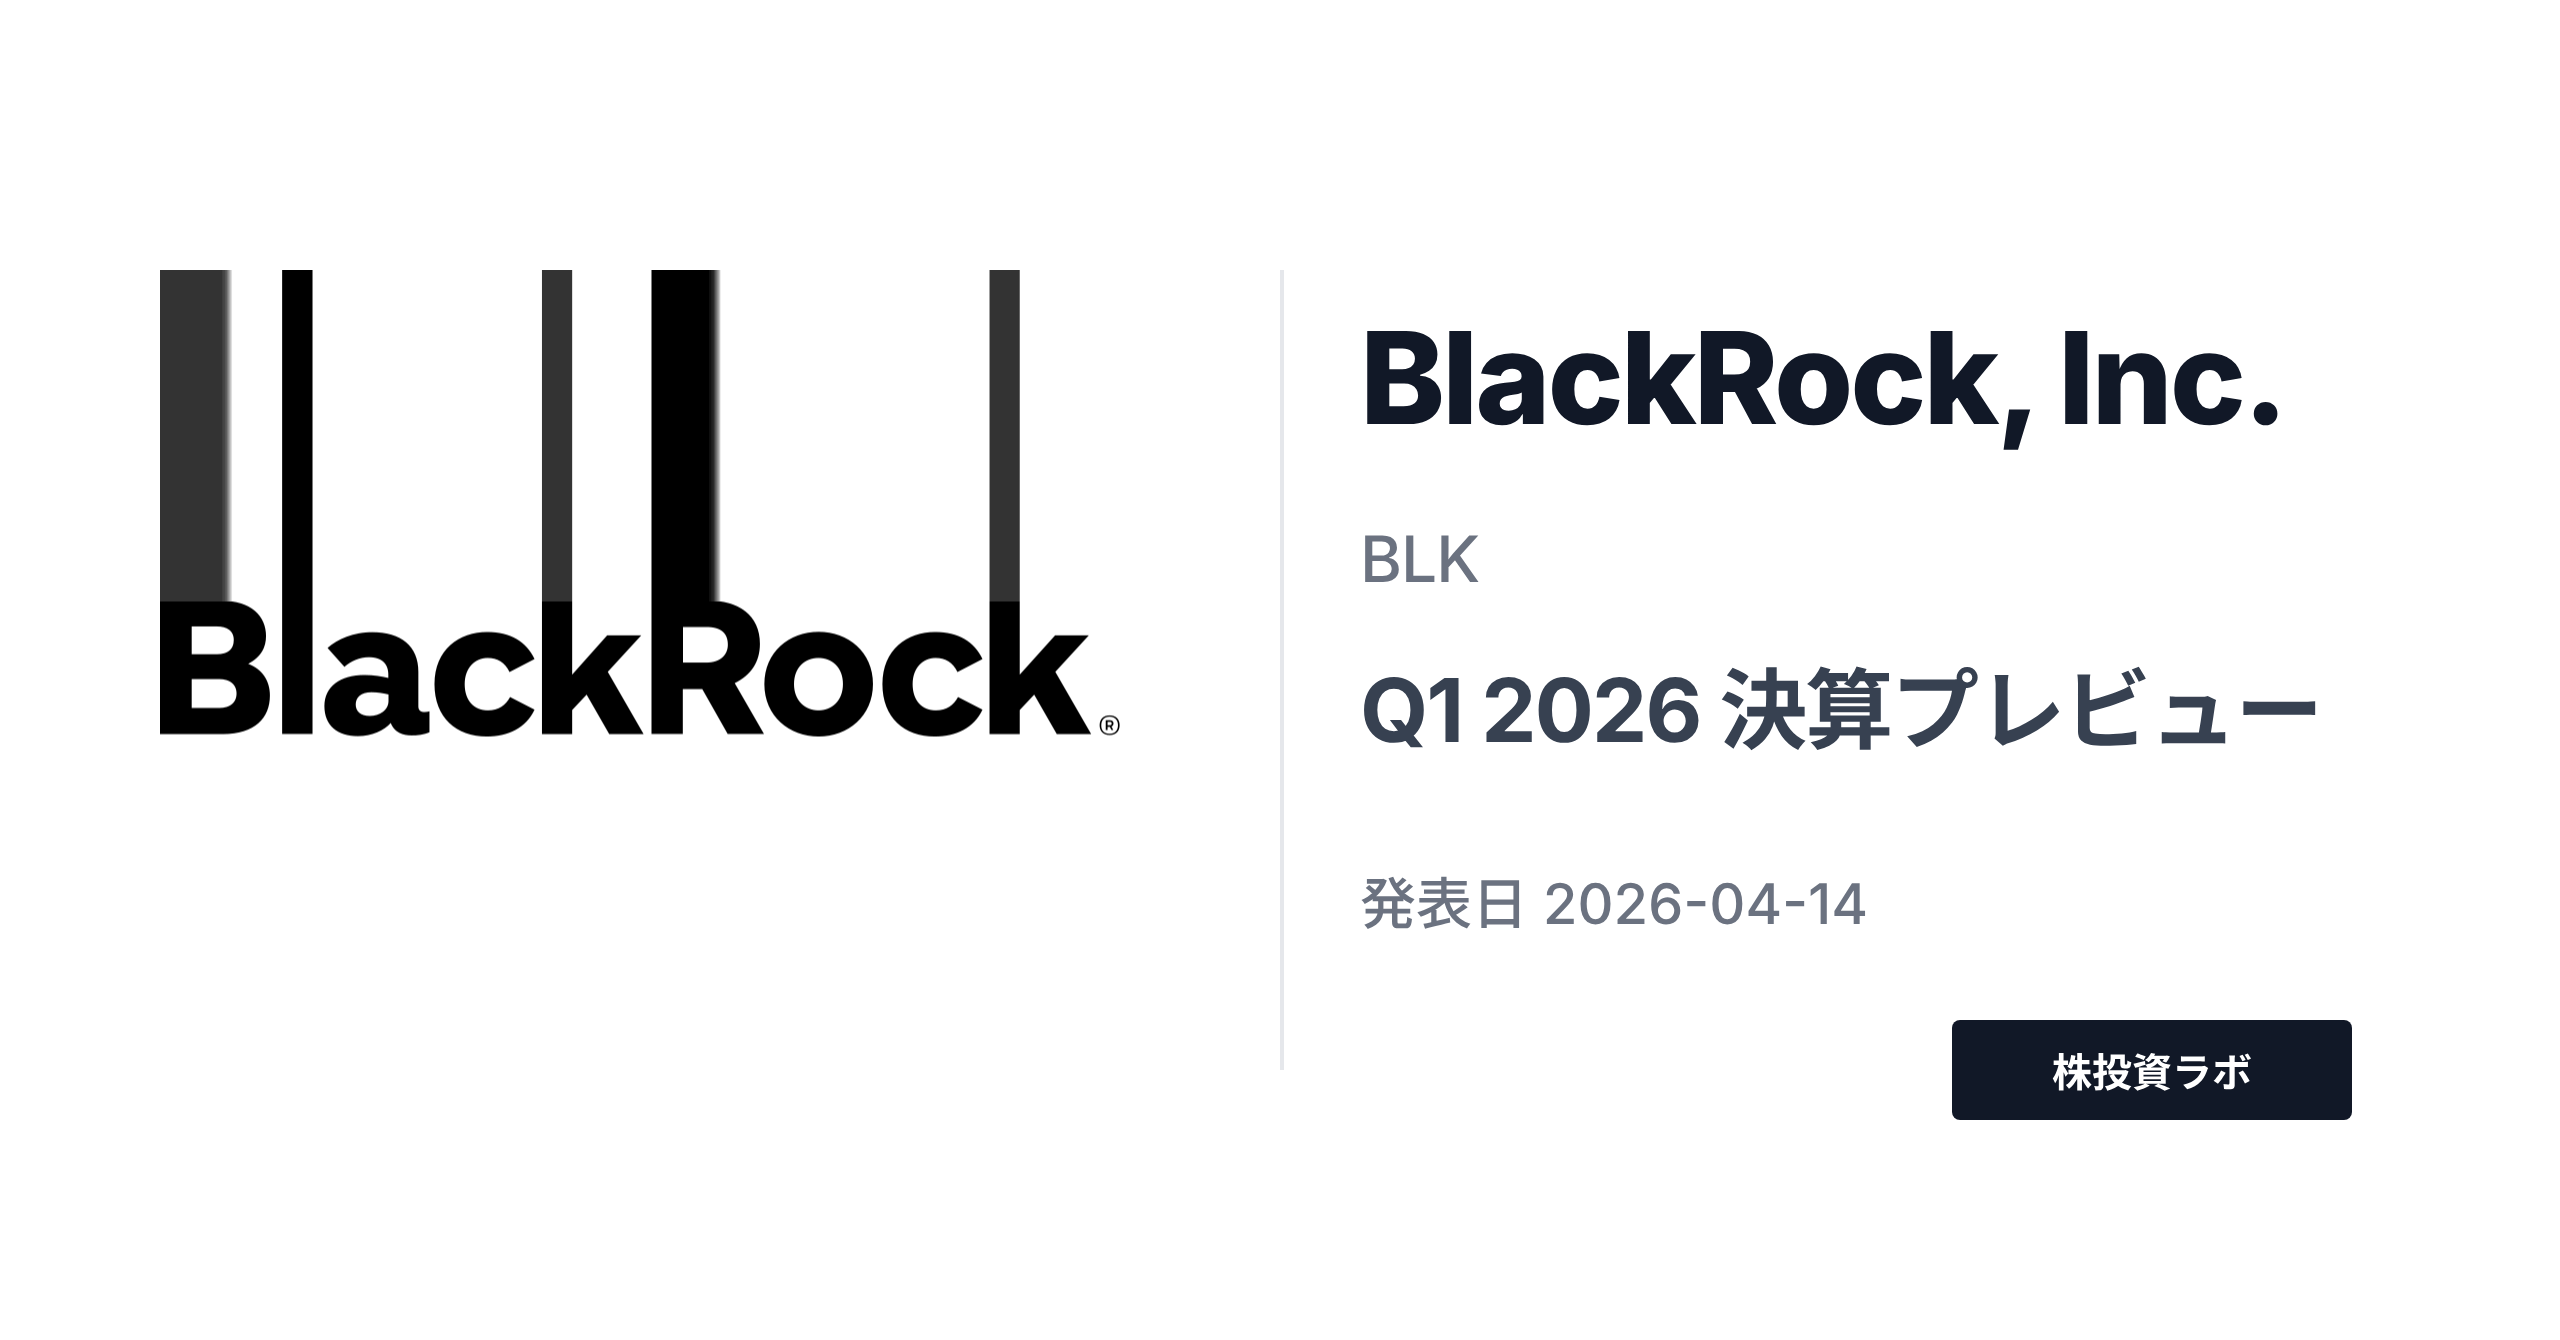
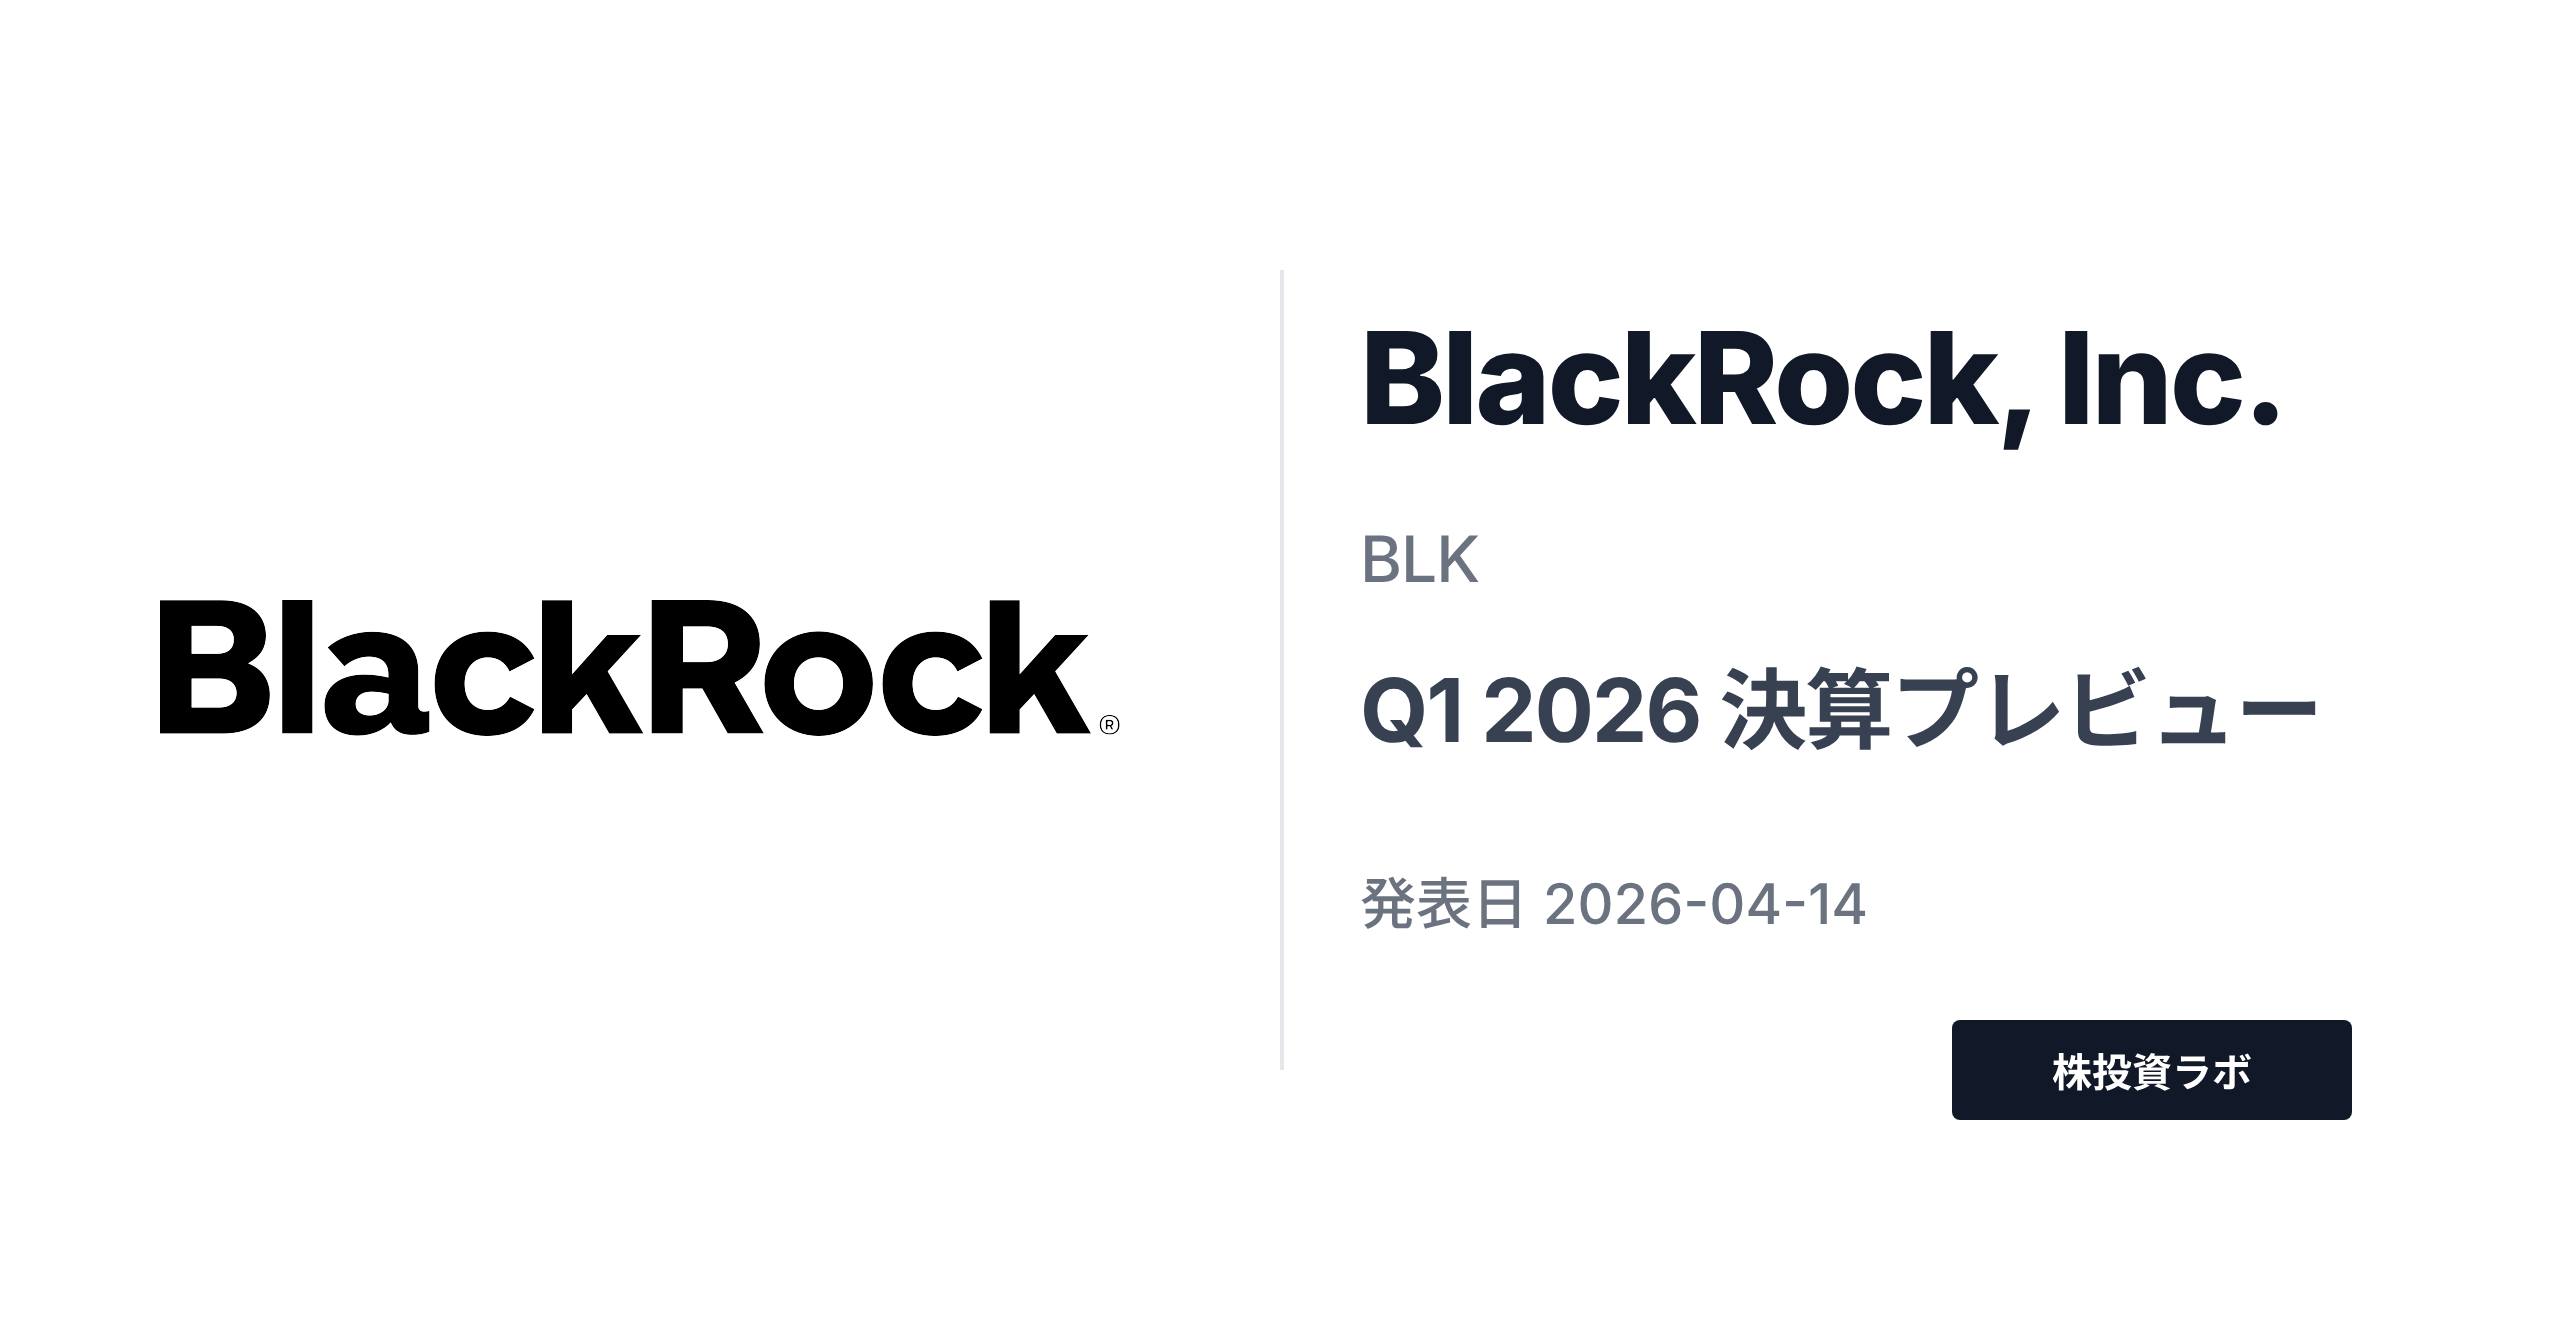
fix(earnings): Pencil fit modeのアスペクト比バグ回避でロゴパディング追加
Pencil の fill.mode: "fit" に極端なアスペクト比のロゴで縦ストレッチ/
ゴーストアーティファクトが発生するレンダリングバグへの対応。
ロゴを Logo Container と同じアスペクト比 1.2:1 に透明パディングしてから
貼り付けることで回避する。

- scripts/fetch_company_logo.py に _pad_to_aspect_ratio 関数追加
  - --pad-ratio 引数で目標アスペクト比を指定（デフォルト未指定時は無処理）
  - キャッシュ済みロゴにも適用、許容誤差±2%以内ならスキップ
- article-earnings-thumbnail/SKILL.md に --pad-ratio 1.2 必須化を明記
- 既存ロゴ8銘柄を再生成しサムネイル全件を再ビルド
- 議論メモを docs/plan/SideBusiness/ に保存

Changed region(s): [[0.1875, 0.1836, 0.2812, 0.459], [0.0625, 0.1836, 0.125, 0.459], [0.375, 0.1836, 0.4062, 0.459]]

diff --git a/scripts/fetch_company_logo.py b/scripts/fetch_company_logo.py
@@ -135,6 +135,63 @@ def _remove_solid_background(path: Path, threshold: int = 40) -> bool:
     return True
 
 
+def _pad_to_aspect_ratio(path: Path, target_ratio: float, tolerance: float = 0.02) -> bool:
+    """ロゴPNGをターゲットアスペクト比（width/height）に透明パディングで合わせる.
+
+    Pencilテンプレの Logo Container (480×400 = 1.2:1) に合わせ、fit モードの
+    レンダリングバグ（アスペクト比ズレ時の縦ストレッチ）を回避する。
+
+    Parameters
+    ----------
+    path : Path
+        処理対象のPNGファイル（上書き保存）
+    target_ratio : float
+        目標アスペクト比 (width / height)
+    tolerance : float
+        既に許容範囲内なら処理をスキップする閾値（デフォルト±2%）
+
+    Returns
+    -------
+    bool
+        パディング処理を実施した場合 True。スキップ/失敗時は False
+    """
+    try:
+        from PIL import Image
+    except ImportError:
+        logger.warning("Pillow not installed; skipping aspect-ratio padding")
+        return False
+
+    try:
+        img = Image.open(path).convert("RGBA")
+    except Exception as e:
+        logger.warning("Failed to open image for padding: %s", e)
+        return False
+
+    w, h = img.size
+    current_ratio = w / h
+    if abs(current_ratio - target_ratio) / target_ratio < tolerance:
+        logger.debug("Aspect ratio %.3f already within tolerance of %.3f; skipping pad", current_ratio, target_ratio)
+        return False
+
+    if current_ratio > target_ratio:
+        new_w = w
+        new_h = int(round(w / target_ratio))
+    else:
+        new_h = h
+        new_w = int(round(h * target_ratio))
+
+    canvas = Image.new("RGBA", (new_w, new_h), (0, 0, 0, 0))
+    offset_x = (new_w - w) // 2
+    offset_y = (new_h - h) // 2
+    canvas.paste(img, (offset_x, offset_y), img)
+    canvas.save(path)
+    logger.info(
+        "Padded logo: %dx%d (ratio %.3f) → %dx%d (ratio %.3f, target %.3f)",
+        w, h, current_ratio, new_w, new_h, new_w / new_h, target_ratio,
+    )
+    return True
+
+
 def _download_logo(session: requests.Session, filename: str, dest: Path) -> bool:
     """Commons Special:FilePath で指定幅PNGをダウンロードし保存."""
     encoded = urllib.parse.quote(filename)
@@ -253,6 +310,7 @@ def fetch_company_logo(
     output_path: Path | None = None,
     force_refresh: bool = False,
     remove_background: bool = False,
+    pad_ratio: float | None = None,
 ) -> Path | None:
     """企業ロゴをWikidata P154経由で取得しローカルキャッシュに保存.
 
@@ -277,6 +335,8 @@ def fetch_company_logo(
 
     if dest.exists() and not force_refresh:
         logger.info("Using cached logo: %s", dest)
+        if pad_ratio is not None:
+            _pad_to_aspect_ratio(dest, pad_ratio)
         return dest
 
     session = _session()
@@ -325,6 +385,8 @@ def fetch_company_logo(
         if _download_logo(session, filename, dest):
             if remove_background:
                 _remove_solid_background(dest)
+            if pad_ratio is not None:
+                _pad_to_aspect_ratio(dest, pad_ratio)
             return dest
 
     logger.error("Failed to fetch logo: ticker=%s company=%s", ticker_norm, company_name)
@@ -361,6 +423,12 @@ def main() -> int:
         action="store_true",
         help="取得後、四隅から検出した単色背景を透過化（Netflix赤背景対策）",
     )
+    parser.add_argument(
+        "--pad-ratio",
+        type=float,
+        default=None,
+        help="ターゲットアスペクト比 (width/height) に透明パディングで合わせる。Pencil Logo Container 用は 1.2",
+    )
     parser.add_argument("--log-level", default="INFO")
     args = parser.parse_args()
 
@@ -382,6 +450,7 @@ def main() -> int:
         output_path=args.output,
         force_refresh=args.force_refresh,
         remove_background=args.remove_background,
+        pad_ratio=args.pad_ratio,
     )
     if not path:
         return 1

diff --git a/docs/plan/SideBusiness/2026-04-15_pencil-fit-bug-and-thumbnail-rebuild.md b/docs/plan/SideBusiness/2026-04-15_pencil-fit-bug-and-thumbnail-rebuild.md
@@ -1,0 +1,62 @@
+# 議論メモ: Pencil fit modeバグ回避とearnings記事サムネイル一括再生成
+
+**日付**: 2026-04-15
+**参加**: ユーザー + AI
+
+## 背景・コンテキスト
+
+TSLA Q1 2026 決算プレビュー記事の株価チャート（手書きの概略推移）が不正確だったことから始まった一連の作業。チャートを正しいスクリプト（`scripts/generate_earnings_chart.py`）で再生成する過程で、earnings記事サムネイルの企業ロゴが歪んで表示される問題（BLK のロゴ上方に縦棒が並ぶアーティファクト等）を発見。Pencil の `fill.mode: "fit"` のレンダリングバグであることを実測検証で特定し、回避策を実装。8社のロゴと 9 記事のサムネイルを全再生成した。
+
+## 議論のサマリー
+
+### 1. TSLAチャート修正
+
+- 元のチャート: 手書きの「概略推移（参考値）」で実データではなかった
+- まず yfinance で実データの週次終値チャートに差し替え
+- ユーザー指摘: earnings専用の `scripts/generate_earnings_chart.py` を使うべき
+- 反復: 期間1年→5年、アノテーション全四半期→直近4四半期、S&P500破線→実線
+
+### 2. サムネイル ロゴ歪みの発見
+
+- ユーザー指摘: BLK・NFLX サムネイルでロゴが歪んで見える
+- 検証: BLK(6.9:1)/JPM(7.0:1)/NFLX(2.15:1) で発生、UNH(13:1)/TSLA(0.77:1) は問題なし
+- 元ロゴ自体は無加工で正常 → Pencil 描画段階で歪みが入っている
+- Pencil の 3 モード(`stretch`/`fill`/`fit`)を全て実測したが、`fit` でも極端なアスペクト比で縦方向ストレッチ的なアーティファクトが残ることを確認
+
+### 3. 加工なしで貼れるか議論
+
+- スキーマ上は `mode: "fit"` がアスペクト比保持のはず
+- 実装上は壊れているため、原画像そのままでは無理
+- 透明パディングで Logo Container 比率(1.2:1)に揃えれば「画像本体は無加工 + 余白追加だけ」で実質「そのまま貼る」に近い体験
+
+### 4. 一括再生成
+
+- 8社のロゴを `--pad-ratio 1.2` で再パディング
+- 9記事のサムネイルを `mcp__pencil__batch_design` + `export_nodes` で全再生成
+- 長社名（JPMorgan Chase & Co. / Taiwan Semiconductor）はテンプレ枠超過 → 短縮形（JPMorgan Chase / TSMC）で表示
+
+## 決定事項
+
+1. **ロゴパディング**: `scripts/fetch_company_logo.py` に `--pad-ratio FLOAT` と `_pad_to_aspect_ratio()` を追加。earnings サムネイル生成時は `--pad-ratio 1.2` を必須化（`SKILL.md` Step 2 に明記）
+2. **TSLA決算チャート構成**: 期間 5 年（デフォルト）+ 直近 1 年（4 四半期）の決算日アノテーション
+3. **S&P500線**: 累積リターンパネルで破線(`linestyle="--"`)を削除し実線で描画
+
+## アクションアイテム
+
+- [x] `--pad-ratio 1.2` を SKILL.md に必須化（高）→ `act-2026-04-15-pad-ratio-skill-doc`
+- [x] 8社（BLK/JPM/TSM/GE/NFLX/TSLA/UNH/IBM）のキャッシュロゴを 1.2:1 に再パディング（高）→ `act-2026-04-15-logos-bulk-padded`
+- [x] 9記事のサムネイル全再生成（高）→ `act-2026-04-15-thumbnails-9-rebuilt`
+- [x] TSLA `chart_price_1y.png` を `generate_earnings_chart.py` で5年+直近4四半期+SP500実線で再生成（高）→ `act-2026-04-15-tsla-chart-real-data`
+- [ ] 長社名 DISPLAY_NAME マップを `article-earnings-thumbnail` スキル内に正式実装（中）→ `act-2026-04-15-display-name-extend-jpm-tsm`
+
+## 次回の議論トピック
+
+- DISPLAY_NAME マップの実装方式（meta.yaml に `display_name` 追加 vs スキル内ハードコード）
+- Pencil バグレポートを公式に提出するか
+- 他カテゴリ（macro/stock_analysis 等）のサムネイルにも同様のロゴ歪みリスクがないか検証
+
+## 参考情報
+
+- 影響を受けるロゴアスペクト比の閾値: 約 2.15:1 〜 7:1（中間ゾーン）。13:1 等の極端な横長は細すぎて目立たず、縦長(<1:1)は問題なし
+- パディング後のロゴサイズ例: BLK 960×139 → 960×800、TSLA 960×1242 → 1490×1242
+- 短縮社名運用: 既存の `dec-2026-04-15-thumbnail-display-name-manual` 決定を踏襲

diff --git a/.claude/skills/article-earnings-thumbnail/SKILL.md b/.claude/skills/article-earnings-thumbnail/SKILL.md
@@ -73,10 +73,14 @@ date_text = f"発表日 {earnings_date}"  # "発表日 2026-04-22"
 ## Step 2: ロゴ取得
 
 ```bash
-uv run python scripts/fetch_company_logo.py --meta-yaml {article_dir}/meta.yaml
+uv run python scripts/fetch_company_logo.py --meta-yaml {article_dir}/meta.yaml --pad-ratio 1.2
 ```
 
 出力: `assets/company_logos/{TICKER}.png`（既にキャッシュ済みの場合は再利用）
+
+### `--pad-ratio 1.2` は必須
+
+Pencil の `fill.mode: "fit"` には極端なアスペクト比のロゴで縦方向にゴースト/ストレッチが発生するレンダリングバグがある（例: BLK 6.9:1 → 縦棒のアーティファクト）。これを回避するため、ロゴを Logo Container と同じアスペクト比 `1.2:1`（480×400）に透明パディングしてから貼り付ける。パディングはピクセル本体には触れず、上下／左右に透明余白を追加するだけなので「実質、原画像をそのまま使う」状態となる。
 
 ### ロゴ加工ポリシー
 
